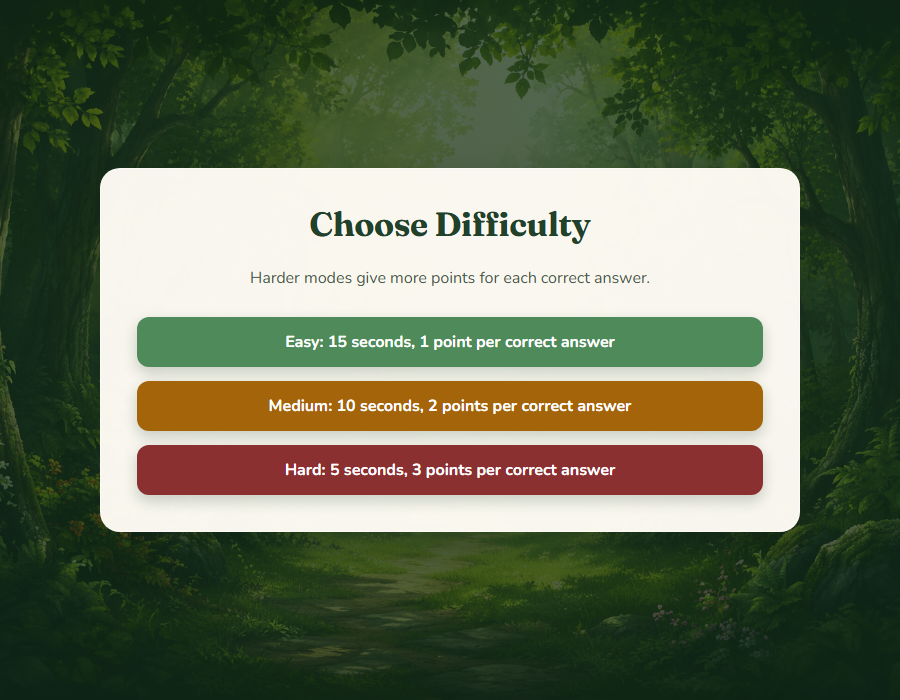
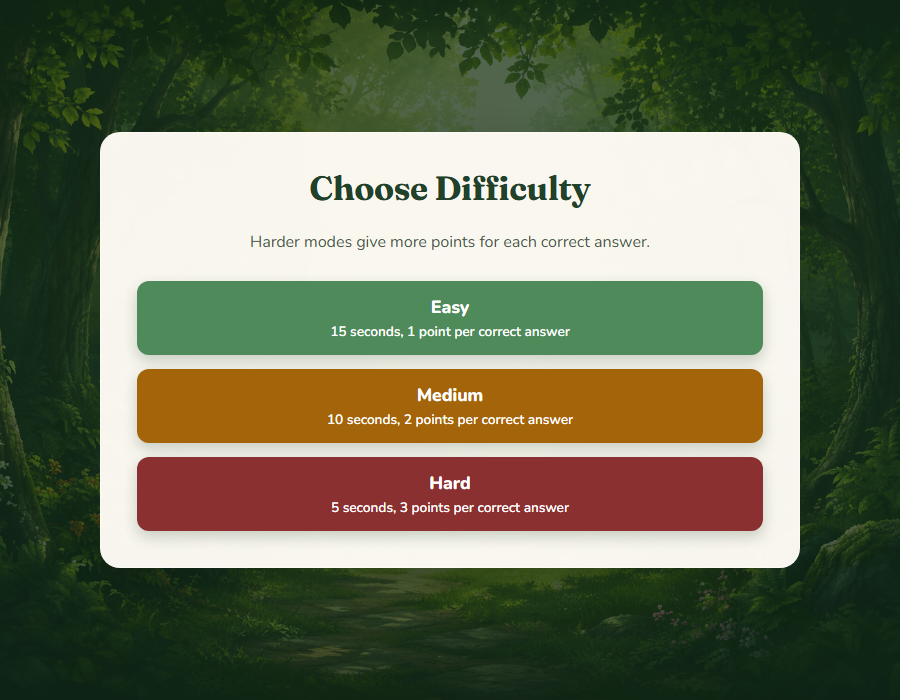
Polish buttons, a11y, difficulty hierarchy; pin deps; dedup guards
- Define secondary buttons with a green border (hover deepens it) so they
  no longer read as disabled and meet WCAG 1.4.11 non-text contrast.
- Add a visually-hidden label for the score-save input and scope="col"
  on the leaderboard headers for screen-reader semantics.
- Give difficulty options real hierarchy: bold name on its own line with
  the timing/points detail demoted beneath; update the matching test.
- Pin requirements.txt to tested versions for reproducible builds.
- Extract active_question() and share it across quiz/answer/next/timeout
  instead of repeating the same game-state guard four times.
- Refresh the screenshots whose pages actually changed.

Changed region(s): [[0.0933, 0.39, 0.9022, 0.81], [0.0933, 0.18, 0.9022, 0.36]]

diff --git a/static/style.css b/static/style.css
@@ -32,6 +32,19 @@
     box-sizing: border-box;
 }
 
+/* Hidden visually, still read by screen readers */
+.visually-hidden {
+    position: absolute;
+    width: 1px;
+    height: 1px;
+    padding: 0;
+    margin: -1px;
+    overflow: hidden;
+    clip: rect(0, 0, 0, 0);
+    white-space: nowrap;
+    border: 0;
+}
+
 body {
     margin: 0;
     font-family: var(--font-body);
@@ -201,6 +214,19 @@ h1 {
 .difficulty-medium { background: var(--amber); }
 .difficulty-hard { background: var(--berry); }
 
+.difficulty-name {
+    display: block;
+    font-size: 1.1rem;
+    font-weight: 800;
+}
+
+.difficulty-detail {
+    display: block;
+    margin-top: 3px;
+    font-size: 0.85rem;
+    font-weight: 600;
+}
+
 /* Tactile answer choices: light card that fills green on interaction */
 .answer-button {
     position: relative;
@@ -239,6 +265,7 @@ h1 {
 .secondary-button {
     background: var(--mint);
     color: var(--forest-dark);
+    border: 1.5px solid var(--leaf);
 }
 
 .main-button:hover,
@@ -258,6 +285,7 @@ h1 {
 .secondary-button:hover,
 .secondary-button:focus-visible {
     background: #cbe0d0;
+    border-color: var(--forest);
 }
 
 /* Pressed state for every button */

diff --git a/templates/leaderboard.html b/templates/leaderboard.html
@@ -41,13 +41,13 @@
     <table class="leaderboard-table">
         <thead>
             <tr>
-                <th>#</th>
-                <th>Name</th>
-                <th>Score</th>
-                <th>Points</th>
-                <th>%</th>
-                <th>Difficulty</th>
-                <th>Category</th>
+                <th scope="col">#</th>
+                <th scope="col">Name</th>
+                <th scope="col">Score</th>
+                <th scope="col">Points</th>
+                <th scope="col">%</th>
+                <th scope="col">Difficulty</th>
+                <th scope="col">Category</th>
             </tr>
         </thead>
         <tbody>

diff --git a/templates/difficulty.html b/templates/difficulty.html
@@ -11,7 +11,8 @@
         {% for difficulty, seconds in difficulty_timers.items() %}
             {% set points = difficulty_points[difficulty] %}
             <button class="difficulty-{{ difficulty | lower }}" name="difficulty" value="{{ difficulty }}">
-                {{ difficulty }}: {{ seconds }} seconds, {{ points }} point{{ '' if points == 1 else 's' }} per correct answer
+                <span class="difficulty-name">{{ difficulty }}</span>
+                <span class="difficulty-detail">{{ seconds }} seconds, {{ points }} point{{ '' if points == 1 else 's' }} per correct answer</span>
             </button>
         {% endfor %}
     </div>

diff --git a/templates/result.html b/templates/result.html
@@ -35,7 +35,8 @@
         <p class="small-text">Score saved to the leaderboard.</p>
     {% else %}
         <form action="{{ url_for('save_score') }}" method="post" class="save-score-form">
-            <input type="text" name="name" placeholder="Your name" maxlength="20" class="name-input" required>
+            <label for="player-name" class="visually-hidden">Your name</label>
+            <input type="text" id="player-name" name="name" placeholder="Your name" maxlength="20" class="name-input" required>
             <button class="main-button" type="submit">Save Score</button>
         </form>
     {% endif %}

diff --git a/app.py b/app.py
@@ -80,6 +80,20 @@ def start_new_game(category):
     session["category"] = category
 
 
+def active_question():
+    """Return ((questions, index), None) for the in-progress game, or
+    (None, <redirect>) pointing where the request should bail out to."""
+    selected_questions = session.get("selected_questions")
+    if not selected_questions:
+        return None, redirect(url_for("home"))
+
+    current_question = session.get("current_question", 0)
+    if current_question >= len(selected_questions):
+        return None, redirect(url_for("result"))
+
+    return (selected_questions, current_question), None
+
+
 def init_db():
     with sqlite3.connect(DB_PATH) as conn:
         conn.execute("""
@@ -159,24 +173,17 @@ def choose_category():
 
 @app.route("/quiz")
 def quiz():
-    selected_questions = session.get("selected_questions")
-    current_question = session.get("current_question", 0)
-    feedback = session.get("feedback")
-
-    if not selected_questions:
-        return redirect(url_for("home"))
-
-    if current_question >= len(selected_questions):
-        return redirect(url_for("result"))
-
-    question = selected_questions[current_question]
+    game, bail = active_question()
+    if bail:
+        return bail
+    selected_questions, current_question = game
 
     return render_template(
         "quiz.html",
-        question=question,
+        question=selected_questions[current_question],
         question_number=current_question + 1,
         total_questions=len(selected_questions),
-        feedback=feedback,
+        feedback=session.get("feedback"),
         time_limit=session.get("time_limit", 15),
         streak=session.get("streak", 0),
         score=session.get("score", 0)
@@ -185,14 +192,10 @@ def quiz():
 
 @app.route("/answer", methods=["POST"])
 def answer():
-    selected_questions = session.get("selected_questions")
-    current_question = session.get("current_question", 0)
-
-    if not selected_questions:
-        return redirect(url_for("home"))
-
-    if current_question >= len(selected_questions):
-        return redirect(url_for("result"))
+    game, bail = active_question()
+    if bail:
+        return bail
+    selected_questions, current_question = game
 
     if session.get("feedback"):
         return redirect(url_for("quiz"))
@@ -223,13 +226,10 @@ def answer():
 
 @app.route("/next", methods=["POST"])
 def next_question():
-    selected_questions = session.get("selected_questions")
-    if not selected_questions:
-        return redirect(url_for("home"))
-
-    current_question = session.get("current_question", 0)
-    if current_question >= len(selected_questions):
-        return redirect(url_for("result"))
+    game, bail = active_question()
+    if bail:
+        return bail
+    _, current_question = game
 
     session["current_question"] = current_question + 1
     session["feedback"] = None
@@ -239,17 +239,13 @@ def next_question():
 
 @app.route("/timeout", methods=["POST"])
 def timeout():
-    selected_questions = session.get("selected_questions")
-    if not selected_questions:
-        return redirect(url_for("home"))
+    game, bail = active_question()
+    if bail:
+        return bail
+    selected_questions, current_question = game
 
     if session.get("feedback"):
         return redirect(url_for("quiz"))
-
-    current_question = session.get("current_question", 0)
-
-    if current_question >= len(selected_questions):
-        return redirect(url_for("result"))
 
     session["streak"] = 0
     answer_record = build_answer_record(

diff --git a/tests/test_routes.py b/tests/test_routes.py
@@ -16,9 +16,12 @@ def test_difficulty_page_loads(client):
     r = client.get("/start")
     assert r.status_code == 200
     assert b"Choose Difficulty" in r.data
-    assert b"Easy: 15 seconds, 1 point per correct answer" in r.data
-    assert b"Medium: 10 seconds, 2 points per correct answer" in r.data
-    assert b"Hard: 5 seconds, 3 points per correct answer" in r.data
+    assert b"Easy" in r.data
+    assert b"Medium" in r.data
+    assert b"Hard" in r.data
+    assert b"15 seconds, 1 point per correct answer" in r.data
+    assert b"10 seconds, 2 points per correct answer" in r.data
+    assert b"5 seconds, 3 points per correct answer" in r.data
 
 
 def test_404_returns_custom_page(client):
